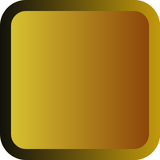
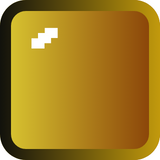
added underlyings

Changed region(s): [[0.1875, 0.1562, 0.375, 0.3125]]

diff --git a/visuals/visual.py b/visuals/visual.py
@@ -3,7 +3,7 @@ import button
 
 # create display window
 SCREEN_HEIGHT = 700
-SCREEN_WIDTH = 1200
+SCREEN_WIDTH = 1300
 
 screen = pygame.display.set_mode((SCREEN_WIDTH, SCREEN_HEIGHT))
 pygame.display.set_caption('Button Demo')
@@ -19,7 +19,13 @@ table_right = pygame.image.load('table_right.png').convert_alpha()
 blue_img = pygame.image.load('blue.png').convert_alpha()
 
 
-blue_stone_img = pygame.image.load('blue_stone.png').convert_alpha()
+underlying_img = pygame.image.load('underlying.png').convert_alpha()
+
+blue_stone_img = pygame.image.load('stone_blue.png').convert_alpha()
+
+
+
+
 
 
 # Creating sigle player table
@@ -45,27 +51,55 @@ def create_table(player_index, pos):
     return player_table
 
 
+def create_underlying(player_index, pos):
+    x = pos[0]
+    y =  pos[1]
+    scale = 0.20
+    underlying_button = button.Button(player_index, 'underlying', x, y, underlying_img, scale, scale)
+
+    return underlying_button
+    
+
+
 # creating all tables for all players
 def create_board(num_players):
-    pos_list = [(230, 450), (930 , 450), (930, 50), ((230, 50))]
+    table_pos_list = [(230, 450), (1030 , 450), (1030, 50), ((230, 50))]
     tables_list = []
     for i in range(num_players):
-        table = create_table('Player' + str(i), pos_list[i])
+        table = create_table('Player' + str(i), table_pos_list[i])
         tables_list.append(table)
-
-    for table in tables_list:
-        print('table', table)
+    
     return tables_list
 
 
-list_of_tables = create_board(4)
-# list_of_tables = create_table(1, (250, 400))
+def create_underlyings():
+    underlying_pos_list2 = [(533, 152), (489, 345), (675, 437), (802, 300), (735, 144)]
+    underlying_pos_list3 = [(550)]
+    underlying_pos_list4 = [(550)]
+
+    underlyings_list = []
+    # for i in range(num_players + 3 + (num_players - 2) * 1 + 1):
+    for i in range(5):
+        underlying = create_underlying('Underlying' + str(i), underlying_pos_list2[i])
+        underlyings_list.append(underlying)
+
+    return underlyings_list
+
+
+
+# crating all tables
+# 4 - number of players
+list_of_tables = create_board(2)
+
+# creating all underlyings
+list_of_underlyings = create_underlyings()
+
 
 
 # COORDINATES LINE 3, PLAYER 4
 blue_stone = button.Button('None', 'blue_stone', 146, 135, blue_stone_img, 0.2, 0.2)
 blue_stone2 = button.Button('None', 'blue_stone2', 186, 135, blue_stone_img, 0.2, 0.2)
-blue_stone3 = button.Button('None', 'blue_stone3', 226, 135, blue_stone_img, 0.2, 0.2)
+blue_stone3 = button.Button('None', 'blue_stone3', 356, 135, blue_stone_img, 0.2, 0.2)
 
 
 
@@ -85,6 +119,11 @@ while run:
                 print(butt.player_index)
                 print(butt.name)
 
+    for underlying in list_of_underlyings:
+        if underlying.draw(screen):
+            print(underlying.player_index)
+            print(underlying.name)
+
 
     # if square_button.draw(screen):
     #     print('square')
@@ -100,13 +139,21 @@ while run:
     #     print('table right')
                 
 
+    
+    # underlying tests
+        
 
+
+
+    # blue stones testing
     if blue_stone.draw(screen):
         print(blue_stone.name)
     if blue_stone2.draw(screen):
         print(blue_stone2.name)
     if blue_stone3.draw(screen):
         print(blue_stone3.name)
+
+
 
 
     # test button after press changes background
